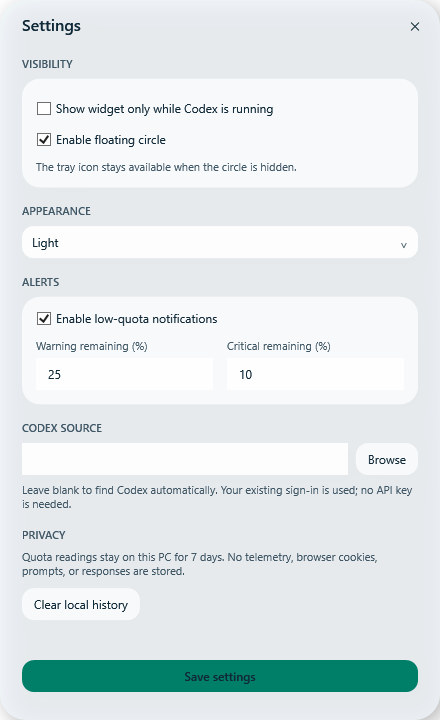
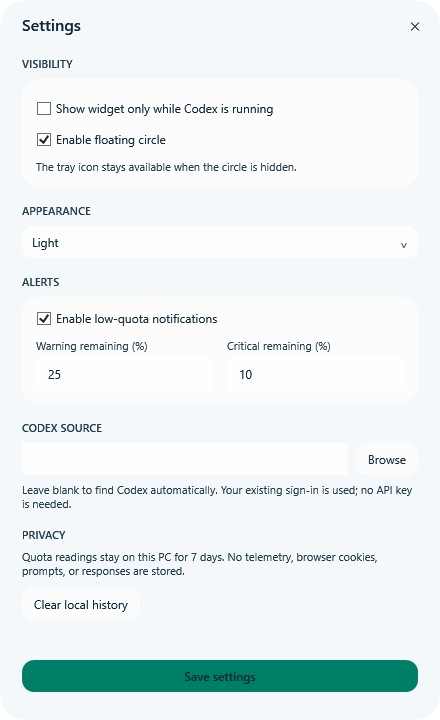
Use true panel transparency with matching rounded clipping

diff --git a/src/CodexUsageTracker.App/App.xaml b/src/CodexUsageTracker.App/App.xaml
@@ -1,13 +1,13 @@
 <Application x:Class="CodexUsageTracker.App.App" xmlns="http://schemas.microsoft.com/winfx/2006/xaml/presentation" xmlns:x="http://schemas.microsoft.com/winfx/2006/xaml" ShutdownMode="OnExplicitShutdown">
   <Application.Resources>
     <SolidColorBrush x:Key="BackgroundBrush" Color="#00111820"/>
-    <SolidColorBrush x:Key="GlassBrush" Color="#D9141E28"/>
-    <SolidColorBrush x:Key="GlassStrongBrush" Color="#F21A2631"/>
-    <SolidColorBrush x:Key="CardBrush" Color="#80283A47"/>
+    <SolidColorBrush x:Key="GlassBrush" Color="#99141E28"/>
+    <SolidColorBrush x:Key="GlassStrongBrush" Color="#E61A2631"/>
+    <SolidColorBrush x:Key="CardBrush" Color="#CC283A47"/>
     <SolidColorBrush x:Key="InputBrush" Color="#D923313D"/>
     <SolidColorBrush x:Key="ButtonHoverBrush" Color="#B53A4D5A"/>
     <SolidColorBrush x:Key="TextBrush" Color="#FFF7FAFC"/>
-    <SolidColorBrush x:Key="MutedBrush" Color="#FFB8C5CE"/>
+    <SolidColorBrush x:Key="MutedBrush" Color="#FFEAF1F6"/>
     <SolidColorBrush x:Key="BorderBrush" Color="#597B8D99"/>
     <SolidColorBrush x:Key="TrackBrush" Color="#52637682"/>
     <SolidColorBrush x:Key="AccentBrush" Color="#FF62E8C1"/>

diff --git a/src/CodexUsageTracker.App/DetailsWindow.xaml b/src/CodexUsageTracker.App/DetailsWindow.xaml
@@ -3,11 +3,10 @@
         xmlns:x="http://schemas.microsoft.com/winfx/2006/xaml"
         xmlns:local="clr-namespace:CodexUsageTracker.App"
         Title="Codex Usage Tracker" Width="420" Height="760" MinWidth="380" MinHeight="520"
-        WindowStyle="None" ResizeMode="NoResize" AllowsTransparency="False"
+        WindowStyle="None" ResizeMode="NoResize" AllowsTransparency="True"
         Background="{DynamicResource BackgroundBrush}" ShowInTaskbar="False" Topmost="True"
         KeyDown="OnKeyDown">
   <Border Background="{DynamicResource GlassBrush}" CornerRadius="26">
-    <Border.Effect><DropShadowEffect BlurRadius="30" ShadowDepth="8" Opacity="0.35" Color="#000000"/></Border.Effect>
     <Grid>
       <Grid.RowDefinitions><RowDefinition Height="44"/><RowDefinition/></Grid.RowDefinitions>
       <Grid Grid.Row="0" Background="Transparent" MouseLeftButtonDown="DragWindow">

diff --git a/src/CodexUsageTracker.App/SettingsWindow.xaml b/src/CodexUsageTracker.App/SettingsWindow.xaml
@@ -2,10 +2,9 @@
         xmlns="http://schemas.microsoft.com/winfx/2006/xaml/presentation"
         xmlns:x="http://schemas.microsoft.com/winfx/2006/xaml"
         Title="Tracker settings" Width="440" Height="720" ResizeMode="NoResize"
-        WindowStyle="None" AllowsTransparency="False" Background="{DynamicResource BackgroundBrush}"
+        WindowStyle="None" AllowsTransparency="True" Background="{DynamicResource BackgroundBrush}"
         WindowStartupLocation="CenterOwner" ShowInTaskbar="False">
   <Border Background="{DynamicResource GlassBrush}" CornerRadius="26">
-    <Border.Effect><DropShadowEffect BlurRadius="30" ShadowDepth="8" Opacity="0.35" Color="#000000"/></Border.Effect>
     <Grid>
       <Grid.RowDefinitions><RowDefinition Height="48"/><RowDefinition/></Grid.RowDefinitions>
       <Grid Background="Transparent" MouseLeftButtonDown="DragWindow">

diff --git a/src/CodexUsageTracker.App/GlassWindow.cs b/src/CodexUsageTracker.App/GlassWindow.cs
@@ -1,56 +1,21 @@
-using System.Runtime.InteropServices;
-using System.Windows.Interop;
-
 namespace CodexUsageTracker.App;
 
 internal static class GlassWindow
 {
     public static void Enable(Window window, Func<bool> isDark)
     {
-        window.SourceInitialized += (_, _) => Apply(window, isDark());
+        window.Loaded += (_, _) => Apply(window, isDark());
+        window.SizeChanged += (_, _) => Apply(window, isDark());
     }
 
     public static void Apply(Window window, bool dark)
     {
-        var handle = new WindowInteropHelper(window).Handle;
-        if (handle == IntPtr.Zero) return;
-        if (HwndSource.FromHwnd(handle) is { CompositionTarget: { } target }) target.BackgroundColor = Colors.Transparent;
-
-        var enabled = dark ? 1 : 0;
-        DwmSetWindowAttribute(handle, 20, ref enabled, sizeof(int));
-        var corner = 2; // DWMWCP_ROUND
-        DwmSetWindowAttribute(handle, 33, ref corner, sizeof(int));
-
-        if (OperatingSystem.IsWindowsVersionAtLeast(10, 0, 22000))
-        {
-            var backdrop = 3; // DWMSBT_TRANSIENTWINDOW: acrylic-style system backdrop
-            DwmSetWindowAttribute(handle, 38, ref backdrop, sizeof(int));
-            var margins = new Margins { Left = -1, Right = -1, Top = -1, Bottom = -1 };
-            DwmExtendFrameIntoClientArea(handle, ref margins);
-        }
-        else
-        {
-            var accent = new AccentPolicy
-            {
-                AccentState = 4, // ACCENT_ENABLE_ACRYLICBLURBEHIND
-                GradientColor = dark ? unchecked((int)0xCC201810) : unchecked((int)0xCCF8F2EE)
-            };
-            var size = Marshal.SizeOf<AccentPolicy>();
-            var pointer = Marshal.AllocHGlobal(size);
-            try
-            {
-                Marshal.StructureToPtr(accent, pointer, false);
-                var data = new WindowCompositionAttributeData { Attribute = 19, Data = pointer, SizeOfData = size };
-                SetWindowCompositionAttribute(handle, ref data);
-            }
-            finally { Marshal.FreeHGlobal(pointer); }
-        }
+        // One shape controls both the tinted surface and all its child content.
+        // Native acrylic paints a separate, more opaque backdrop with its own corner radius.
+        // A layered WPF window instead exposes the real desktop through the brush alpha.
+        if (window.Content is not Border surface) return;
+        surface.Clip = new RectangleGeometry(
+            new Rect(0, 0, surface.ActualWidth, surface.ActualHeight),
+            surface.CornerRadius.TopLeft, surface.CornerRadius.TopLeft);
     }
-
-    [StructLayout(LayoutKind.Sequential)] private struct Margins { public int Left, Right, Top, Bottom; }
-    [StructLayout(LayoutKind.Sequential)] private struct AccentPolicy { public int AccentState, AccentFlags, GradientColor, AnimationId; }
-    [StructLayout(LayoutKind.Sequential)] private struct WindowCompositionAttributeData { public int Attribute; public IntPtr Data; public int SizeOfData; }
-    [DllImport("dwmapi.dll")] private static extern int DwmSetWindowAttribute(IntPtr hwnd, int attribute, ref int value, int size);
-    [DllImport("dwmapi.dll")] private static extern int DwmExtendFrameIntoClientArea(IntPtr hwnd, ref Margins margins);
-    [DllImport("user32.dll")] [return: MarshalAs(UnmanagedType.Bool)] private static extern bool SetWindowCompositionAttribute(IntPtr hwnd, ref WindowCompositionAttributeData data);
 }

diff --git a/src/CodexUsageTracker.App/App.xaml.cs b/src/CodexUsageTracker.App/App.xaml.cs
@@ -46,8 +46,8 @@ public partial class App : Application
     {
         var dark = IsDarkTheme(choice);
         var palette = dark
-            ? new[] { "#00111820", "#D9141E28", "#F21A2631", "#80283A47", "#D923313D", "#B53A4D5A", "#FFF7FAFC", "#FFB8C5CE", "#597B8D99", "#52637682", "#FF62E8C1", "#FF071A17", "#FFA8B7FF", "#FFFFB36B" }
-            : new[] { "#00F5F9FC", "#D9EEF5F8", "#F7FFFFFF", "#BFFFFFFF", "#EFFFFFFF", "#E5DCEAF0", "#FF102938", "#FF405766", "#526F8795", "#426D8795", "#FF007F68", "#FFFFFFFF", "#FF515EBD", "#FFC56016" };
+            ? new[] { "#00111820", "#99141E28", "#E61A2631", "#CC283A47", "#D923313D", "#B53A4D5A", "#FFF7FAFC", "#FFEAF1F6", "#597B8D99", "#52637682", "#FF62E8C1", "#FF071A17", "#FFA8B7FF", "#FFFFB36B" }
+            : new[] { "#00F5F9FC", "#99EEF5F8", "#F7FFFFFF", "#CCFFFFFF", "#EFFFFFFF", "#E5DCEAF0", "#FF102938", "#FF213C4B", "#526F8795", "#426D8795", "#FF007F68", "#FFFFFFFF", "#FF515EBD", "#FFC56016" };
         var keys = new[] { "BackgroundBrush", "GlassBrush", "GlassStrongBrush", "CardBrush", "InputBrush", "ButtonHoverBrush", "TextBrush", "MutedBrush", "BorderBrush", "TrackBrush", "AccentBrush", "AccentTextBrush", "WeekBrush", "DangerBrush" };
         for (var i = 0; i < keys.Length; i++) Current.Resources[keys[i]] = new SolidColorBrush((Color)ColorConverter.ConvertFromString(palette[i]));
     }

diff --git a/README.md b/README.md
@@ -12,7 +12,7 @@ Screenshots use clearly marked synthetic preview values, not account data.
 ## Features
 
 - Always-on-top circular widget; click or keyboard-activate to open details; drag to move.
-- Borderless acrylic-style panels with a native Windows backdrop, rounded glass cards, and high-contrast light/dark palettes.
+- Borderless translucent panels with 40% desktop visibility, rounded glass cards, and light/dark palettes. A single 26-DIP clip keeps the background and content corners aligned; text and controls retain their own opacity.
 - System tray icon with quota rings, remaining quota tooltip, refresh, settings, and quit.
 - By default the circle is visible only while a Codex process runs; tray-only and always-visible modes are configurable.
 - Five-hour and weekly **remaining** quota, used percentages, and reset countdowns.
